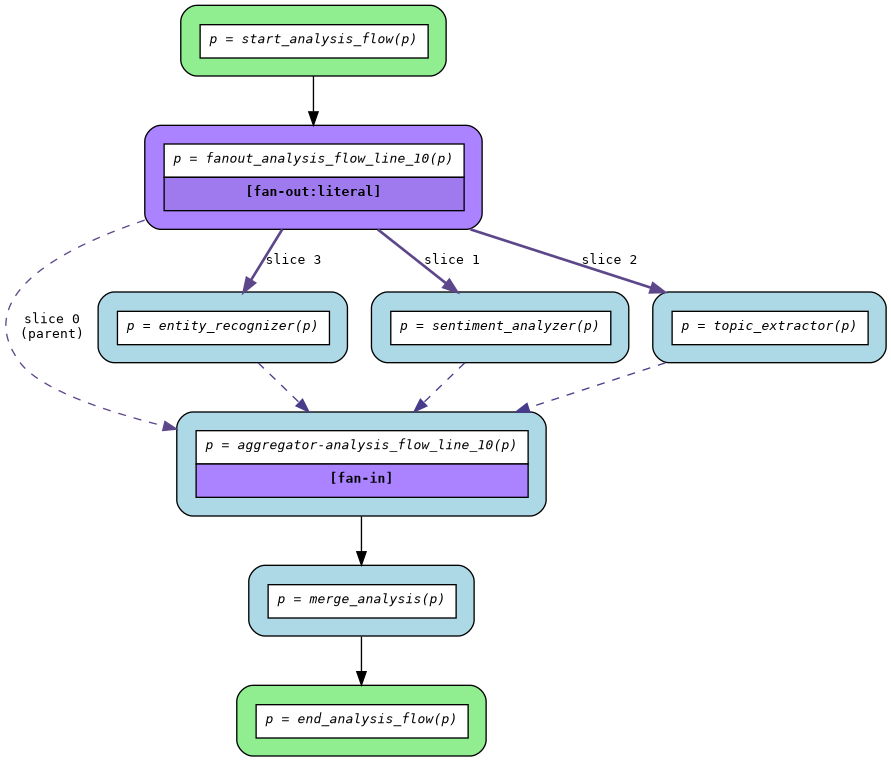
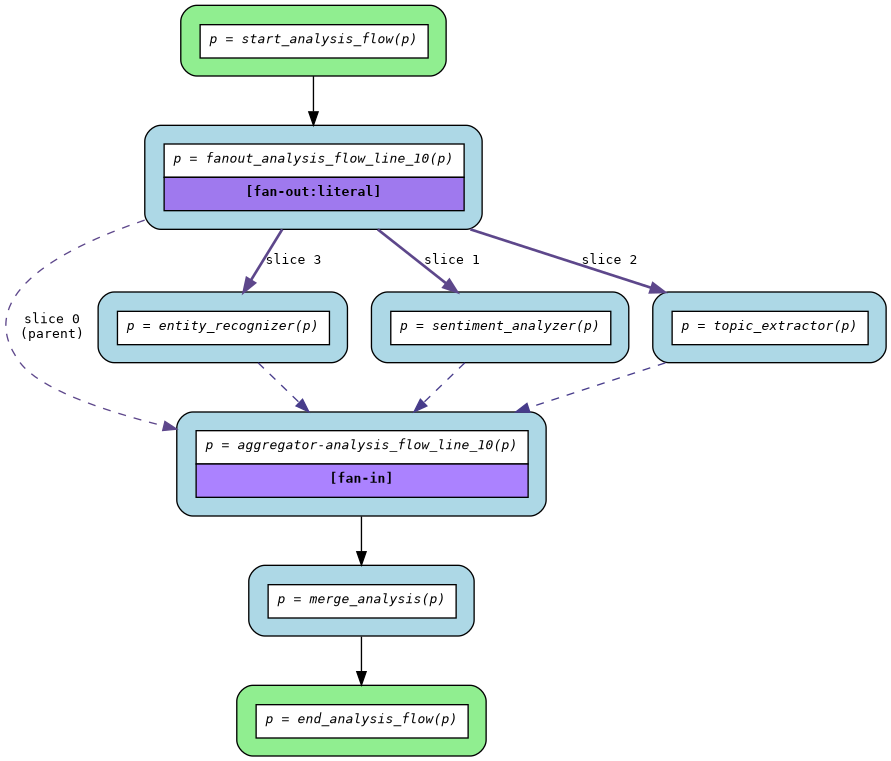
Blue router color for fan-out routers

Changed region(s): [[0.1515, 0.1511, 0.5455, 0.3022]]

diff --git a/src/asya-cli/asya_cli/flow/dotgen.py b/src/asya-cli/asya_cli/flow/dotgen.py
@@ -307,7 +307,7 @@ class DotGenerator:
         if router.name.startswith("start_") or router.name.startswith("end_"):
             color = "lightgreen"
         elif router.is_fan_out:
-            color = "mediumpurple1"
+            color = "lightblue"  # same as regular routers
         else:
             color = "wheat"
 
